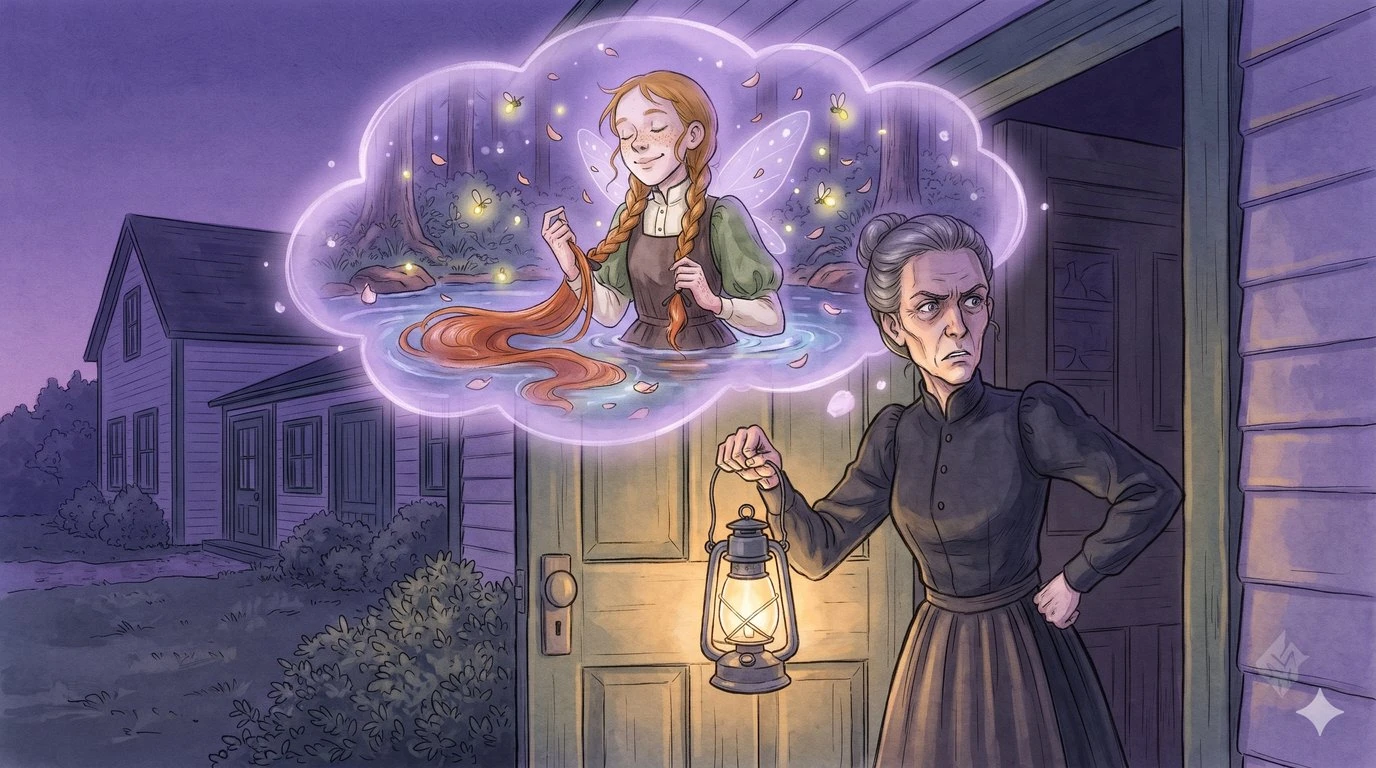
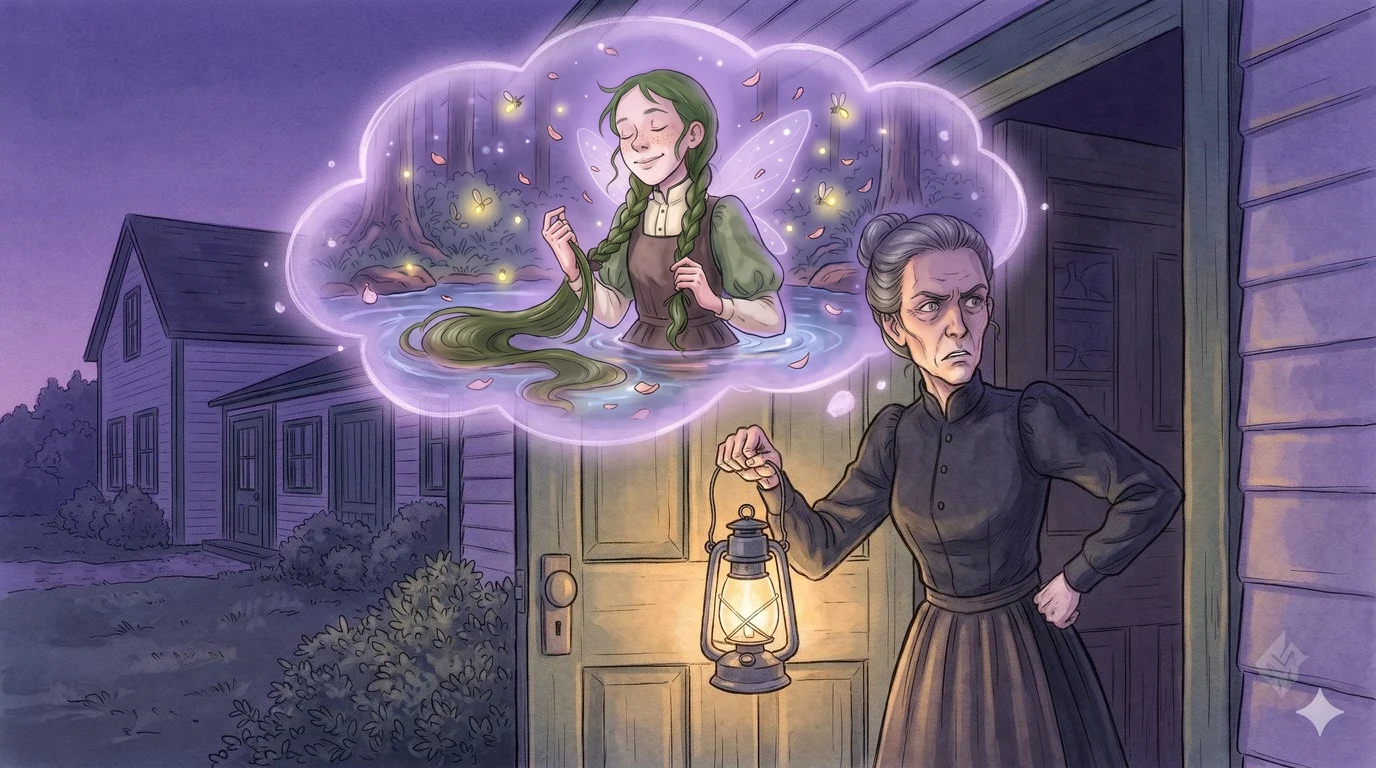
장면 카드 머리 모양 맞춤(9장 일레인·8장 샘물 요정), 설계서에 이번 수정 기록

diff --git a/CLAUDE.md b/CLAUDE.md
@@ -11,7 +11,7 @@
 - `index.html` 화면 뼈대, `style.css` 모양. 빌드 과정 없음.
 - `js/engine.js` 엔진: 장소 `P`(지도 좌표는 1600×900 기준, `from`=열리는 장), 인물 `WHO`·하트 `HEARTS`, 물건 `ITEMS`, 저장(localStorage `anneMap2`),
   지도·대사·선택·이름 짓기·마음 대결·장 결말·최종 결말·가방·장 고르기. 맨 아래에 **장 데이터 모양** 설명이 있음.
-- `js/mini.js` 미니게임: catch(잡기, bad=벌) calm(말 흘려보내기) order(순서) pick(고르기·rival 대결) find(숨은그림) bail(화면 어디든 연타·폰 흔들기, 물결) pour(찻잔 3개·주전자) pace(박자) decorate(끌어다 놓기, spots=정해진 자리에 딱 붙기, anchor:'bottom'=꽃을 구멍에 심듯) run(눈길 달리기, 장애물 그림) slots(카드 순서, clues=앤의 기억 힌트) shelf(찬장 병 기억) recipe(케이크 재료) trace(점선 따라 긋기: 머리 자르기·리본) shield(응원 방패로 놀림 막기, 초록 응원은 통과) herd(소 우리로 보내기: 바라보는 쪽 길이 트인 소부터, 풀 수 있는 판만 만듦) mappick(이름 안 적힌 지도에서 장소 누르기). `#fast` 로 시험용 빠르게.
+- `js/mini.js` 미니게임: catch(잡기, bad=벌) calm(말 흘려보내기) order(순서) pick(고르기·rival 대결) find(숨은그림, scene+spots면 제미나이 그림 속 정해진 자리 찾기) bail(화면 어디든 연타·폰 흔들기, 물결) pour(찻잔 3개·주전자) pace(박자) decorate(끌어다 놓기, spots=정해진 자리에 딱 붙기, anchor:'bottom'=꽃을 구멍에 심듯) run(눈길 달리기, 장애물 그림) slots(카드 순서, clues=앤의 기억 힌트) shelf(찬장 병 기억) recipe(케이크 재료) trace(점선 따라 긋기: 머리 자르기·리본) shield(응원 방패로 놀림 막기, 초록 응원은 통과) herd(소 우리로 보내기: 바라보는 쪽 길이 트인 소부터, 풀 수 있는 판만 만듦) mappick(이름 안 적힌 지도에서 장소 누르기). `#fast` 로 시험용 빠르게.
   pick(고르기, rival 있으면 대결) find(숨은그림 찾기: 목록·가짜 -3초·힌트 1번) bail(물 퍼내기) pour(따르기) pace(박자: 하트가 장밋빛 칸에, 칸이 움직이고 작아짐)
   decorate(끌어다 놓기: baseImg 위에 꽃 배치) run(눈길 달리기: ▲▼ 단추·힘 하트 5칸·점점 빨라짐) slots(그림 카드를 1~N번 칸에 순서대로 놓기) shelf(찬장 병 찾기: 문이 peek초 열렸다 닫히고, 뒤섞인 병 중 '둘째 칸 빨간 병'을 모양까지 기억해 고르기, 기회 3번·틀리면 다시 보여 줌). 주소 끝에 `#fast`를 붙이면 시험용으로 빨라짐.
 - 길: `engine.js`의 `NODES`(길 위 점)·`EDGES`(이어진 길)·`PLACE_NODE`(장소가 올라타는 점). 앤은 그림 속 길을 따라 걷고, 다음 할 일까지 발자국 점선이 보임. 지도 그림을 바꾸면 이 점들도 맞춰야 함.

diff --git a/설계서.md b/설계서.md
@@ -248,4 +248,13 @@ DUELS.lynde = {gauge:5, good:[`sorry`], bad:[`imag`], hint:`린드 부인은 진
 9장 걷는 앤 walk_curl(짙은 곱슬머리+검은 리본) 넣음.
 주의: PowerShell Set-Content/Get-Content로 js를 고치면 한글이 깨짐 → 파이썬(utf-8)으로만 고칠 것.
 
+
+### 2026-11-23 그림 앞뒤 맞추기·지도 손보기
+- 4장 숨은그림: 제미나이가 그린 자작나무 숲길(hf_birch) 속에 진짜로 숨은 제비꽃4·나비3·파랑새2·토끼2·민들레 홀씨1 찾기(spots 좌표는 그림 %). 목록 아이콘(hfi_*)은 그림에서 잘라 씀. 빈 곳을 3번 연달아 누르면 -2초.
+- 장소 배경 계절 맞춤: P.home.bgS(여름 ch8_porch, 가을 ch10_home, 겨울 home_winter 새로). placeBg(k)가 bgS > bgW > bg 순서로 고름.
+- 7장(여름) 부엌이 겨울 부엌(ch6, 창밖 눈)이던 것 -> ch7. 10장 배리 부인 장면 ch6_barry(겨울) -> ch3.
+- 10장 걷는 앤 walk_grow를 서 있는 anne_grown과 같은 옷(크림 블라우스·초록 치마·책)으로 새로.
+- 지도 4계절: 꽃길 왼쪽에도 나무 5그루(계절별 나무 스티커), 역에서 큰길로 가는 흙길. 원본은 스크래치 mapstamp.py로 다시 만들 수 있음(나무는 trees/ 스티커).
+- 아이템: it_pile(물 위 다리 기둥), it_namecard(Anne 손글씨). 장면 카드: sc_sunsetElaine 앤 머리를 9장처럼 짙은 곱슬로, sc_spaRumor 꿈속 앤 머리를 초록으로(편집본에서 머리 부분만 붙임).
+
 **그림 넣는 방법(지금까지 해 온 대로)**: 여러 개는 흰 배경 한 장에 줄 맞춰 그리게 해서 덩어리별로 잘라 투명 배경 webp로(물건 200~220px, 바탕 1000px 너비), 장면은 1376×768. 엣지에서 다운로드가 막히면 사이트 권한 '자동 다운로드' 허용 후 새로 고침, 다운로드 단추는 실제 마우스 클릭으로. 제미나이 그림 오른쪽 아래 반짝이 표시는 지움(cv2.inpaint). 투명 배경이 필요한 건 흰 바탕을 빼서 webp로. 여러 개가 한 장에 있으면 잘라서 각각 저장.
